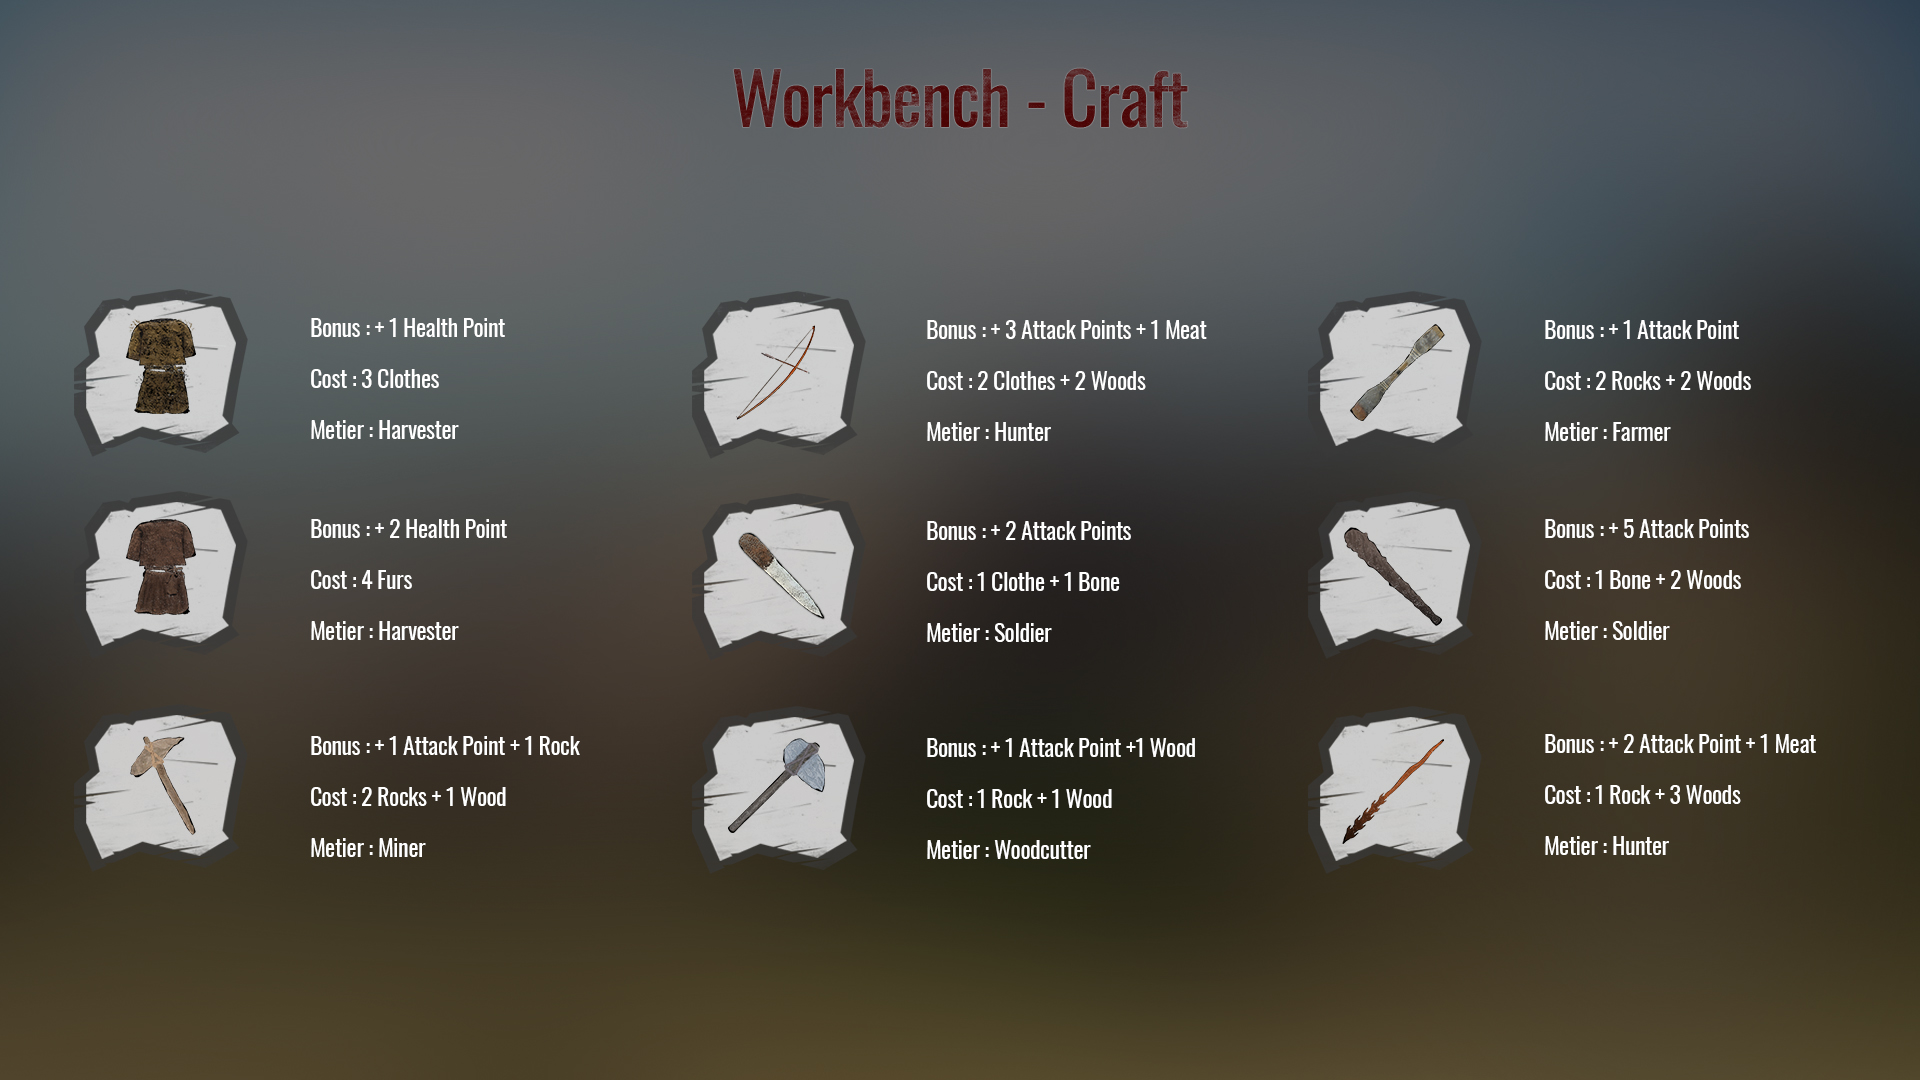
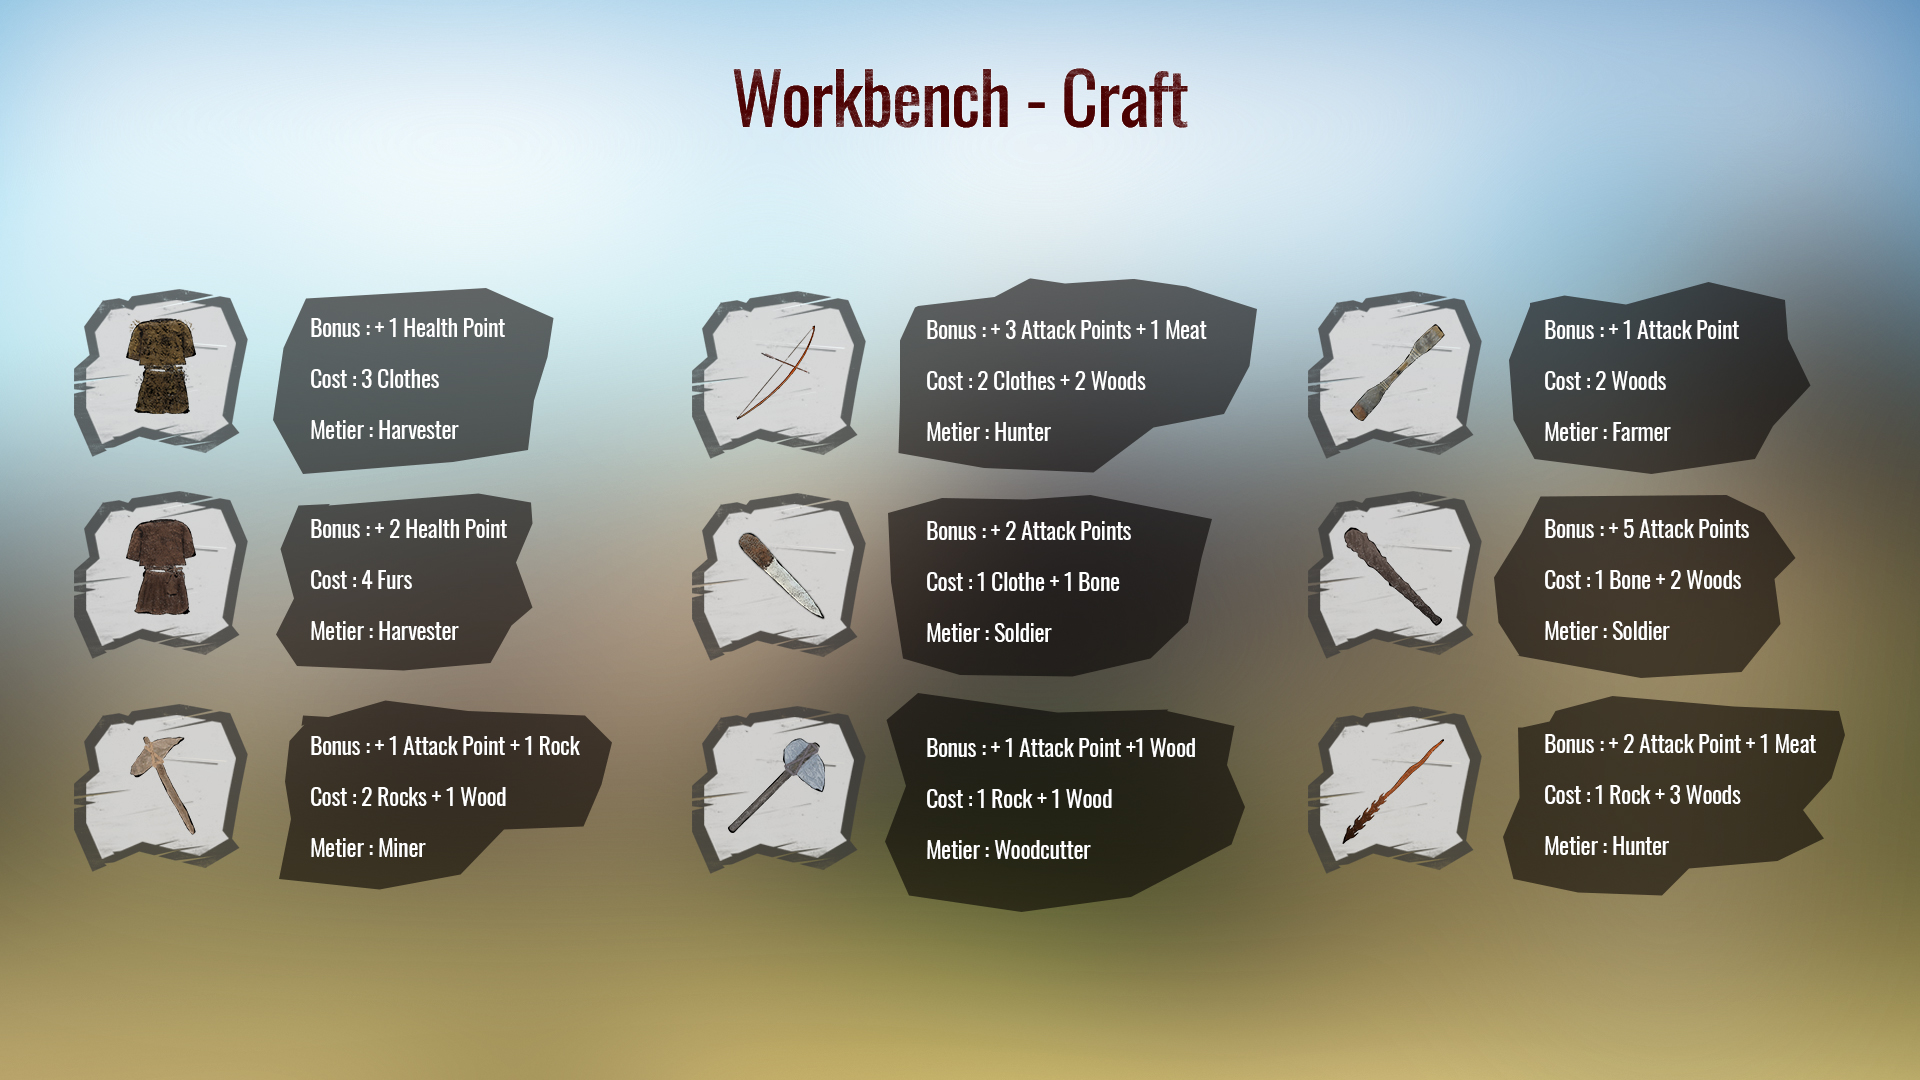
Update : Pause Menu : Help => Restart ; Workbench => Help

diff --git a/Assets/Scripts/Managers/GameManager.cs b/Assets/Scripts/Managers/GameManager.cs
@@ -151,6 +151,11 @@ public class GameManager : MonoBehaviour {
         Application.Quit();
     }
 
+    public void OnClickRestart()
+    {
+        SceneManager.LoadScene(SceneManager.GetActiveScene().buildIndex);
+    }
+
     public void OnClickHelp()
     {
         helpPanel.SetActive(true);
